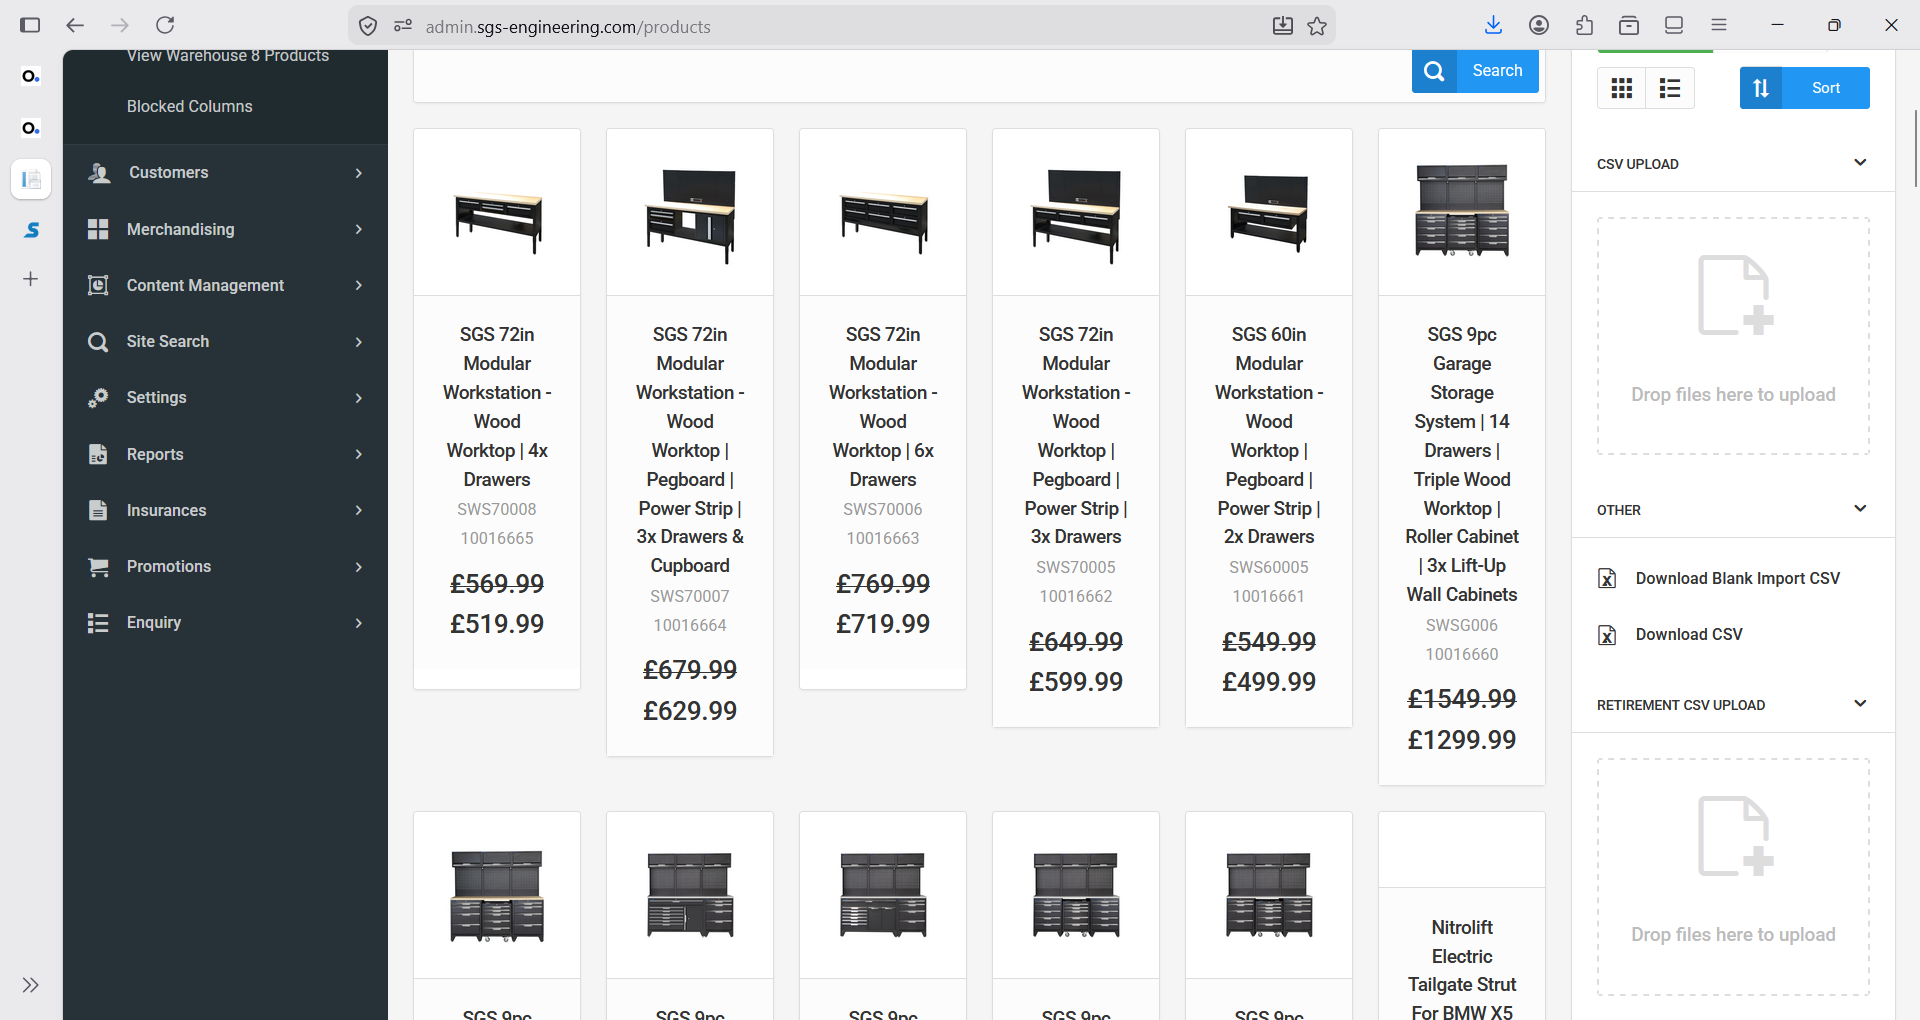
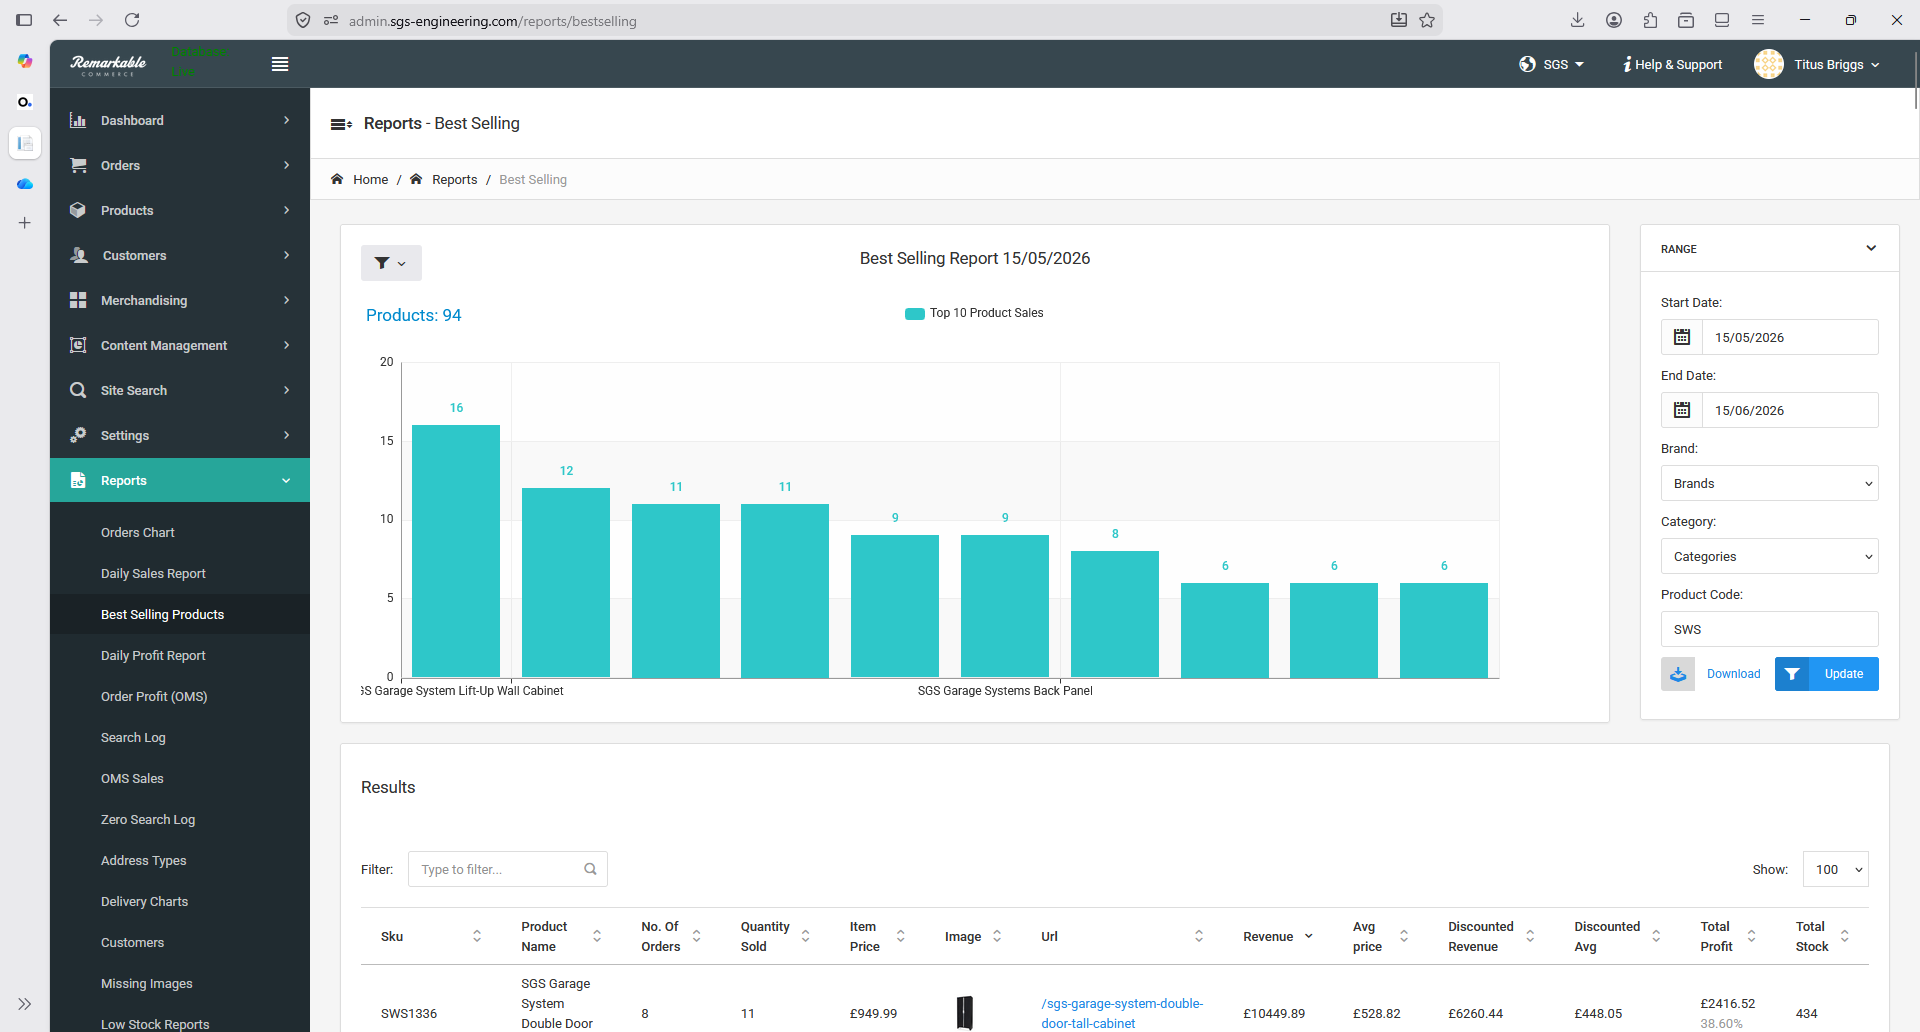
adding imagery

diff --git a/content/posts/Product Data Assistant.md b/content/posts/Product Data Assistant.md
@@ -99,6 +99,11 @@ I refine the component mix and configuration rules to ensure the bundle is:
 
 This stage is iterative — I adjust, test, and re-balance until the bundle feels intuitive and purposeful.
 
+Here’s an example of one of the bundles I’m currently developing. Stock isn’t due until August, but having everything built early means we’re fully prepared when it lands — and it also gives a clear insight into how I approach the bundle‑building process from the ground up.
+
+{{< figure src="/my-website/images/socketry.png" width="100%" >}}
+
+
 #### Checking Commercial Viability
 
 As the structure evolves, I test it against the commercial checkpoints:
@@ -171,6 +176,8 @@ I track:
 - Traffic sources
 - Conversion indicators
 - Early sales performance
+
+{{< figure src="/my-website/images/remarkable.png" width="100%" >}}
 
 This data helps me refine the product over time. Sometimes the improvements are small — adjusting image order, tightening a title, or improving the first paragraph of the description. Other times they’re structural.
 